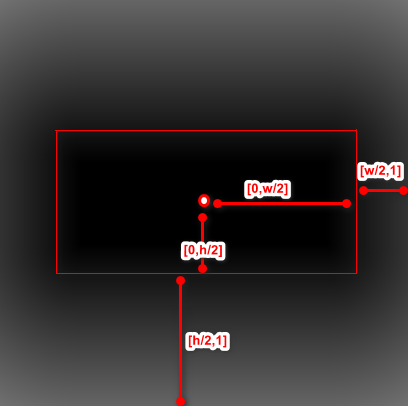
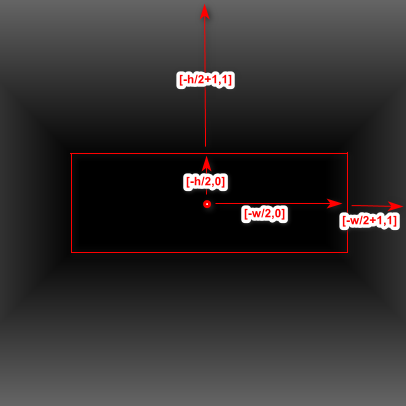
添加二维距离场相关

diff --git a/issues/webGL二维距离场.md b/issues/webGL二维距离场.md
@@ -1,6 +1,8 @@
-##  webGL二维距离场
+##  webGL二维有向距离场(SDF)及布尔运算
 
-**距离场**：在着色器中绘图，类似于在一个方格纸上涂色，每个方格就是一个像素点。想象一下如果我们要在方格纸上绘制一个圆该怎么做呢，我们只需要把圆形内部区域涂成一个颜色，圆形外部区域的涂成另外一种颜色(或者不涂色)，这样我们便有了一个圆。在数学上我们怎么定义圆呢？及圆周上的点到圆心的距离等于半径，圆内部的点到圆心的距离小于半径，圆外部的点到圆心的距离大于半径。这样一圈一圈，我们可以在图上得到每一个点到圆心的距离，我们称之为：距离场。
+## 有向距离场
+
+在着色器中绘图，类似于在一个方格纸上涂色，每个方格就是一个像素点。想象一下如果我们要在方格纸上绘制一个圆该怎么做呢，我们只需要把圆形内部区域涂成一个颜色，圆形外部区域的涂成另外一种颜色(或者不涂色)，这样我们便有了一个圆。在数学上我们怎么定义圆呢？及圆周上的点到圆心的距离等于半径，圆内部的点到圆心的距离小于半径，圆外部的点到圆心的距离大于半径。这样一圈一圈，我们可以在图上得到每一个点到圆心的距离，圆内部的点到圆心的距离减去半径为负值，圆外部点到圆心的距离减去半径为正值，因此我们称之为：有向距离场。
 
 ![图片](https://thebookofshaders.com/07/circle.jpg)
 
@@ -42,7 +44,106 @@ void main(){
 
 ### 矩形距离场
 
-矩形距离场稍微要复杂一些，假设矩形中点在正中心，长为w，宽为h，那么对于矩形内部的点来说，它们的x轴到中心的距离为[0,w/2]，它们的y轴到中心的距离为[0,h/2]；而矩形外面的的坐标，它们的x轴到中心的范围为[w/2,0]，它们Y轴到中心点范围为[h/2,1],如下图所示：
+矩形距离场稍微要复杂一些，假设矩形中点在正中心，长为w，宽为h，那么对于矩形内部的点来说，它们的x轴到中心的距离为[0,w/2]，它们的y轴到中心的距离为[0,h/2]；而矩形外面的的坐标，它们的x轴到中心的范围为[w/2,0]，它们Y轴到中心点范围为[h/2,1],如下图所示：那么减去长宽的一半之后，内部点x的范围为[-w/2,0]，外部点x轴范围为[-w/2+1,1],如下图所示：
 
-![图](./images/rect.png)
+![矩形](.\images\rect.png)
 
+那么绘制矩形就有一个简单的方式了，矩形内部，x值和y值都必须小于0；矩形外部，x值和y值必然有一个是大于0 的，那么只要x，y的最大值小于0 ，就是矩形内部，否则，就是矩形外部，代码可以这样写
+
+```glsl
+#ifdef GL_ES
+precision mediump float;
+#endif
+
+uniform vec2 uResolution;
+
+float plot_Rect(vec2 st,vec2 c,vec2 halfwh){
+	// 移动到中心
+	st-=c;
+	// 以绝对值减去长宽
+	st=abs(st)-halfwh;
+	// 在矩形内部的点 x 范围为：[-w/2,0],同时 y的范围为[-h/2,0],所以，只要最大值小于0就可以表示点在矩形的范围
+	return max(st.x,st.y);
+}
+
+void main(){
+	vec2 st=gl_FragCoord.xy/uResolution;
+	float dis = plot_Rect(st,vec2(0.5),vec2(0.3,0.1));
+	gl_FragColor.rgb=step(dis,0.0)*vec3(1.0);
+	gl_FragColor.a = 1.0;
+}
+```
+
+对于更多更复杂的图形，绘制方法也是一样的，判断一个点处于图形内部还是图形外部就可以绘制他们，越复杂的图形，其距离场函数可能就会越复杂，需要有很深的数学功底，这些有一些距离场函数可以供参考：
+
+[shadertroy创始人的博客](<http://iquilezles.org/www/articles/distfunctions2d/distfunctions2d.htm>) 里面有许多2D乃至3D的距离场函数，可以通过这个图粗略的了解一下：
+
+![2dsdf](./images/2dsdffunc.png)
+
+以及 the book of shaders大佬的[**vscode-glsl-canvas**](<https://github.com/actarian/vscode-glsl-canvas/blob/master/src/snippets/snippets.md>) 这个插件里面包含了一些可用的2d sdf函数片段，可以参考.
+
+还有国外一位大佬写的[着色器教程](<https://www.ronja-tutorials.com/2018/11/10/2d-sdf-basics.html>)，很全面，很值得一看。
+
+## 距离场布尔运算
+
+通过距离场函数得到图形之后，可以通过布尔计算得到不同的组合，如下图所示，分别为圆于矩形进行交集（∩）、并集(∪)、差集(－)得到
+
+![布尔计算](./images/sdfboolen.jpg)
+
+代码如下图所示：
+
+```glsl
+#ifdef GL_ES
+precision mediump float;
+#endif
+
+uniform vec2 uResolution;
+
+#include <lib/util.glsl>
+#include <lib/shape.glsl>
+#include <lib/color.glsl>
+
+// 合并，取并集
+float merge(float dis1,float dis2) {
+	return min(dis1,dis2);
+}
+
+// 相交，取交集
+float intersect(float dis1,float dis2){
+	return max(dis1,dis2);
+}
+
+// 相减
+float subtract(float base, float subtraction){
+	return max(base,-subtraction);
+}
+
+
+void main(){
+	vec2 st=gl_FragCoord.xy/uResolution;
+	// 交集
+	float c1 = sCircle(st,vec2(0.1,0.5),0.2);
+	float r1 = sPoly(st,vec2(0.2,0.6),0.2,4);
+	float dis1 = intersect(c1,r1);
+	
+	// 并
+	float c2 = sCircle(st,vec2(0.5,0.5),0.1);
+	float r2 = sPoly(st,vec2(0.5,0.6),0.1,4);
+	float dis2 = merge(c2,r2);
+	
+	// 差
+	float c3 = sCircle(st,vec2(0.8,0.5),0.1);
+	float r3 = sPoly(st,vec2(0.8,0.6),0.1,4);
+	float dis3 = subtract(c3,r3);
+	
+	float dis = merge(dis1,dis2);
+	dis = merge(dis,dis3);
+
+	gl_FragColor.rgb=fill(dis,AZUR);
+	gl_FragColor.a=1.;
+}
+```
+
+我们可以通过这些做出更有意思的图形，图形学的世界其实就是数学的世界，正如大师所说的，使用着色器绘图就如同将一艘船放进瓶子里，过程是如此的复杂，但是结果却很美丽。共勉！
+
+![共勉](./images/shaderDraw.jpg)

diff --git a/README.md b/README.md
@@ -18,4 +18,6 @@
 
 - [x] 2019-04-15 [Mapbox 入门](https://github.com/zhouzhili/blog/issues/8)
 
+- [x] 2019-04-15 [webGL 二维有向距离场(SDF)及布尔运算](https://github.com/zhouzhili/blog/issues/11)
+
 - [ ] 2019-04-15 [构建自己的 GLSL 绘图器 - 2d 版](https://github.com/zhouzhili/blog/issues/10)
